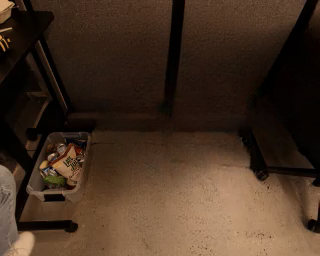
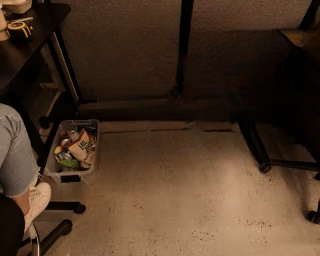
Update drawer tasks
* use white interior, add handles, adjust intervals for mk_station.urdf
* replace a1 with a2
* change lighting

diff --git a/mani_skill2/envs/pick_and_place/custom_scenes/open_drawer_in_scene.py b/mani_skill2/envs/pick_and_place/custom_scenes/open_drawer_in_scene.py
@@ -11,14 +11,34 @@ from typing import List, Optional
 import numpy as np
 import sapien.core as sapien
 from mani_skill2.utils.registration import register_env
+from mani_skill2.utils.sapien_utils import get_entity_by_name
 
-from .base_env import (CustomOtherObjectsInSceneEnv, CustomSceneEnv,
-                       CustomYCBInSceneEnv)
+from .base_env import CustomOtherObjectsInSceneEnv, CustomSceneEnv
 
 
 class OpenDrawerInSceneEnv(CustomSceneEnv):
-    def __init__(self, **kwargs):
-        super().__init__(**kwargs)
+    drawer_id: str
+
+    def _initialize_agent(self):
+        self.robot_init_options.setdefault(
+            "qpos",
+            np.array(
+                [
+                    -0.2639457174606611,
+                    0.0831913360274175,
+                    0.5017611504652179,
+                    1.156859026208673,
+                    0.028583671314766423,
+                    1.592598203487462,
+                    -1.080652960128774,
+                    0,
+                    0,
+                    -0.00285961 - 0.025,
+                    0.7851361 + 0.008,
+                ]
+            ),
+        )
+        super()._initialize_agent()
 
     def _setup_lighting(self):
         # self.enable_shadow = True
@@ -27,9 +47,10 @@ class OpenDrawerInSceneEnv(CustomSceneEnv):
         self._scene.set_ambient_light([0.3, 0.3, 0.3])
         # Only the first of directional lights can have shadow
         self._scene.add_directional_light(
-            [-0.05, 0, -1], [1, 1, 1], shadow=True, scale=5, shadow_map_size=2048
+            [-0.2, 0, -1], [1, 1, 1], shadow=True, scale=5, shadow_map_size=2048
         )
-        self._scene.add_directional_light([-1, 0, 0], [0.5] * 3)
+        self._scene.add_directional_light([-1, 1, -0.05], [0.5] * 3)
+        self._scene.add_directional_light([-1, -1, -0.05], [0.5] * 3)
 
     def _load_actors(self):
         self._load_arena_helper(add_collision=False)
@@ -38,27 +59,77 @@ class OpenDrawerInSceneEnv(CustomSceneEnv):
         filename = str(self.asset_root / "mk_station.urdf")
         loader = self._scene.create_urdf_loader()
         loader.fix_root_link = True
-        self._art_obj = loader.load(filename)
+        self.art_obj = loader.load(filename)
         # TODO: This pose can be tuned for different rendering approachs.
-        self._art_obj.set_pose(sapien.Pose([-0.295, 0, 0.0 + 0.017], [1, 0, 0, 0]))
-        for joint in self._art_obj.get_active_joints():
-            # joint.set_friction(0.05)
-            # joint.set_drive_property(stiffness=0, damping=1)
+        self.art_obj.set_pose(sapien.Pose([-0.295, 0, 0.017], [1, 0, 0, 0]))
+        for joint in self.art_obj.get_active_joints():
             # friction seems more important
-            joint.set_friction(0.1)
+            # joint.set_friction(0.1)
+            joint.set_friction(0.05)
             joint.set_drive_property(stiffness=0, damping=1)
-        # TODO: select drawer
-        self.obj = self._art_obj.get_links()[1]
+
+        self.obj = get_entity_by_name(
+            self.art_obj.get_links(), f"{self.drawer_id}_drawer"
+        )
+        joint_names = [j.name for j in self.art_obj.get_active_joints()]
+        self.joint_idx = joint_names.index(f"{self.drawer_id}_drawer_joint")
 
     def evaluate(self, **kwargs):
-        qpos = self._art_obj.get_qpos()[0]
+        qpos = self.art_obj.get_qpos()[self.joint_idx]
         return dict(success=qpos >= 0.18, qpos=qpos)
-    
+
     def get_language_instruction(self):
-        # TODO: add other drawers
-        return "open top drawer"
+        return f"open {self.drawer_id} drawer"
 
 
-@register_env("OpenDrawerCustomInScene-v0", max_episode_steps=200)
 class OpenDrawerCustomInSceneEnv(OpenDrawerInSceneEnv, CustomOtherObjectsInSceneEnv):
     pass
+
+
+@register_env("OpenTopDrawerCustomInScene-v0", max_episode_steps=200)
+class OpenTopDrawerCustomInSceneEnv(OpenDrawerCustomInSceneEnv):
+    drawer_id = "top"
+
+
+@register_env("OpenMiddleDrawerCustomInScene-v0", max_episode_steps=200)
+class OpenMiddleDrawerCustomInSceneEnv(OpenDrawerCustomInSceneEnv):
+    drawer_id = "middle"
+
+
+@register_env("OpenBottomDrawerCustomInScene-v0", max_episode_steps=200)
+class OpenBottomDrawerCustomInSceneEnv(OpenDrawerCustomInSceneEnv):
+    drawer_id = "bottom"
+
+
+class CloseDrawerInSceneEnv(OpenDrawerInSceneEnv):
+    def _initialize_articulations(self):
+        super()._initialize_articulations()
+        qpos = self.art_obj.get_qpos()
+        qpos[self.joint_idx] = 0.2
+        self.art_obj.set_qpos(qpos)
+
+    def evaluate(self, **kwargs):
+        qpos = self.art_obj.get_qpos()[self.joint_idx]
+        return dict(success=qpos < 0.05, qpos=qpos)
+
+    def get_language_instruction(self):
+        return f"close {self.drawer_id} drawer"
+
+
+class CloseDrawerCustomInSceneEnv(CloseDrawerInSceneEnv, CustomOtherObjectsInSceneEnv):
+    pass
+
+
+@register_env("CloseTopDrawerCustomInScene-v0", max_episode_steps=200)
+class CloseTopDrawerCustomInSceneEnv(CloseDrawerCustomInSceneEnv):
+    drawer_id = "top"
+
+
+@register_env("CloseMiddleDrawerCustomInScene-v0", max_episode_steps=200)
+class CloseMiddleDrawerCustomInSceneEnv(CloseDrawerCustomInSceneEnv):
+    drawer_id = "middle"
+
+
+@register_env("CloseBottomDrawerCustomInScene-v0", max_episode_steps=200)
+class CloseBottomDrawerCustomInSceneEnv(CloseDrawerCustomInSceneEnv):
+    drawer_id = "bottom"

diff --git a/mani_skill2/envs/pick_and_place/base_env.py b/mani_skill2/envs/pick_and_place/base_env.py
@@ -214,6 +214,14 @@ class StationaryManipulationEnv(BaseEnv):
             robot_links = self.agent.robot.get_links() # e.g., [Actor(name="root", id="1"), Actor(name="root_arm_1_link_1", id="2"), Actor(name="root_arm_1_link_2", id="3"), ...]
             robot_link_ids = np.array([x.id for x in robot_links], dtype=np.int32)
 
+            other_link_ids = []
+            for art_obj in self._scene.get_all_articulations():
+                if art_obj is self.agent.robot:
+                    continue
+                for link in art_obj.get_links():
+                    other_link_ids.append(link.id)
+            other_link_ids = np.array(other_link_ids, dtype=np.int32)
+
             # obtain segmentations of the target object(s) and the robot
             for camera_name in self.rgb_overlay_cameras:
                 assert 'Segmentation' in obs['image'][camera_name].keys(), 'Image overlay requires segment info in the observation!'
@@ -221,7 +229,7 @@ class StationaryManipulationEnv(BaseEnv):
                 actor_seg = seg[..., 1]
                 mask = np.ones_like(actor_seg, dtype=np.float32)
                 if ('background' in self.rgb_overlay_mode and 'object' not in self.rgb_overlay_mode) or ('debug' in self.rgb_overlay_mode):
-                    mask[np.isin(actor_seg, np.concatenate([robot_link_ids, target_object_actor_ids]))] = 0.0
+                    mask[np.isin(actor_seg, np.concatenate([robot_link_ids, target_object_actor_ids, other_link_ids]))] = 0.0
                 elif 'background' in self.rgb_overlay_mode:
                     mask[np.isin(actor_seg, robot_link_ids)] = 0.0
                 mask = mask[..., np.newaxis]
